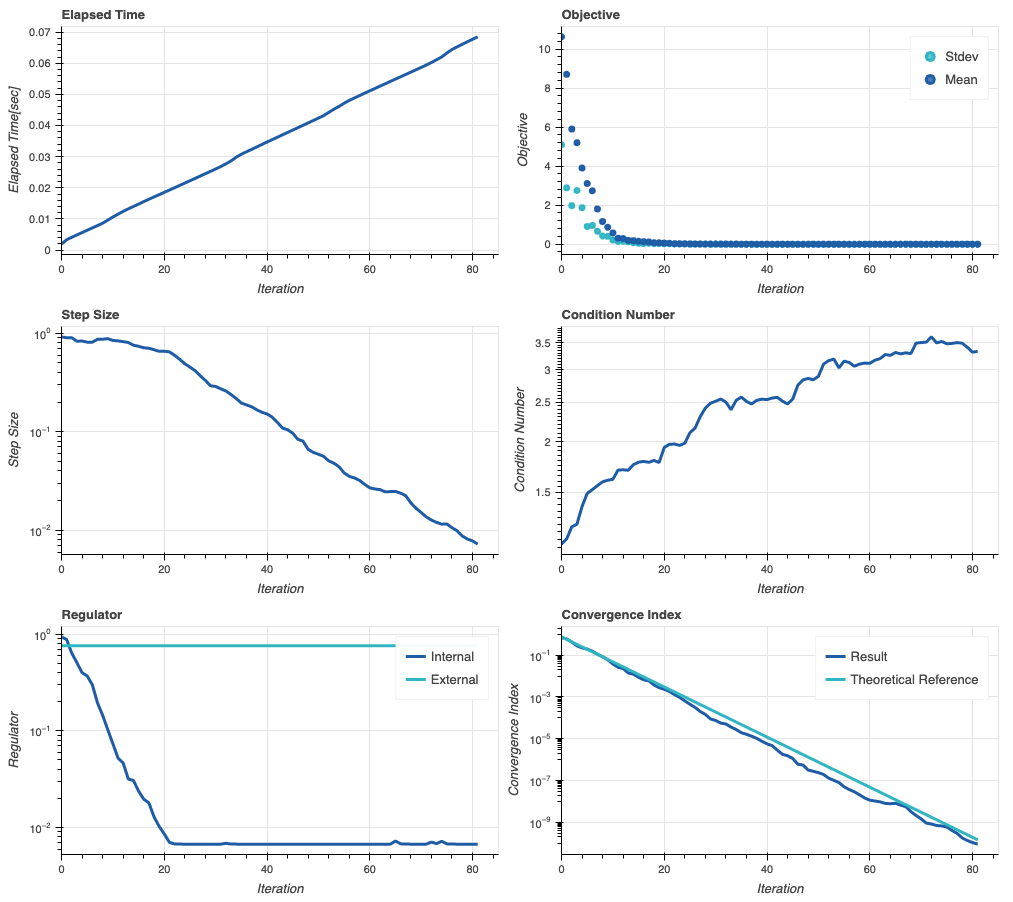
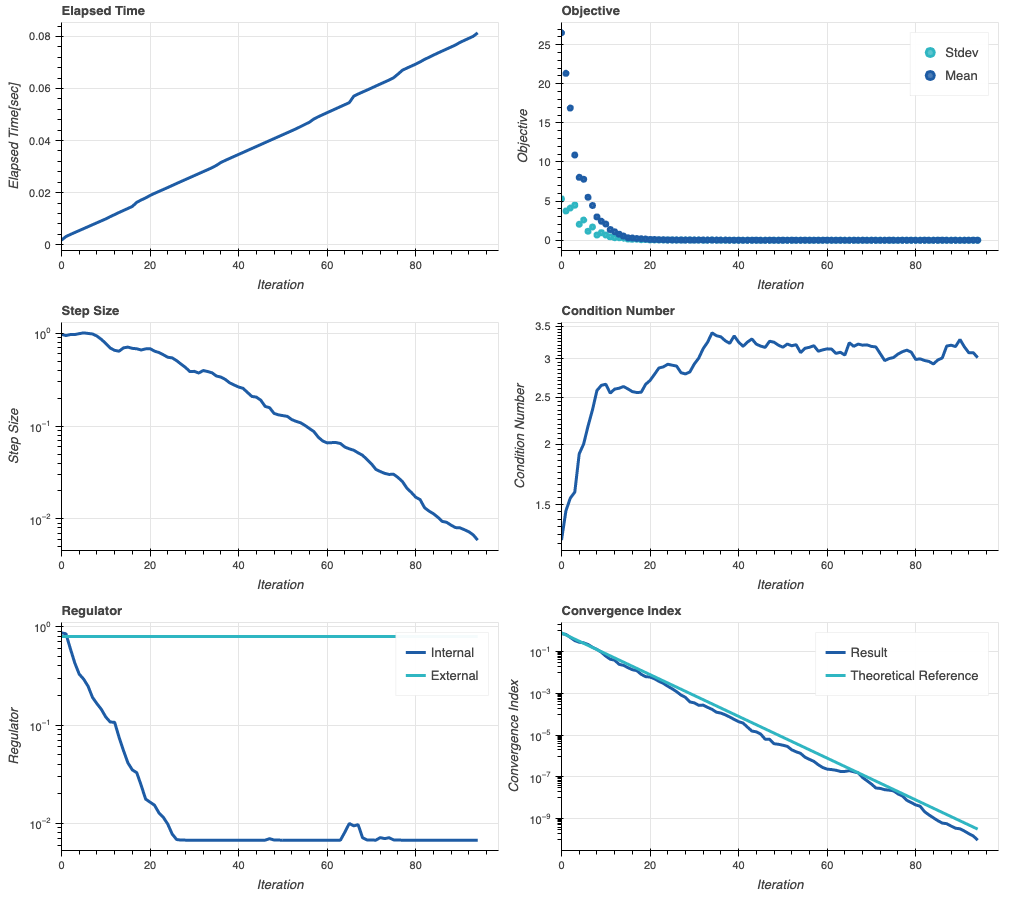
Fix: Correct the equation to derive external regulator.

diff --git a/src/regcma/regcma.py b/src/regcma/regcma.py
@@ -355,7 +355,7 @@ class RegCMA:
         elif option.is_enabled_regulation:
             state.external_regulator = math.pow(
                 option.convergence_tolerance / (state.dispersion
-                                                * dimension), 1.0 / option.iteration_max)
+                                                / dimension), 1.0 / option.iteration_max)
         else:
             state.external_regulator = 1.0
 
